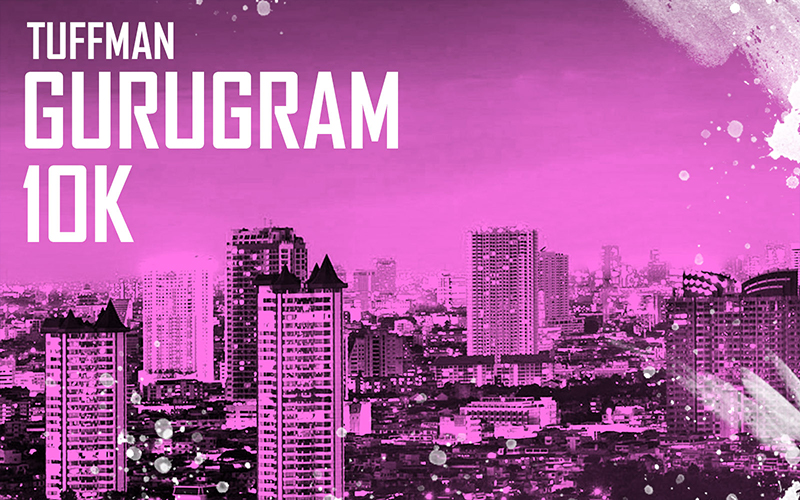
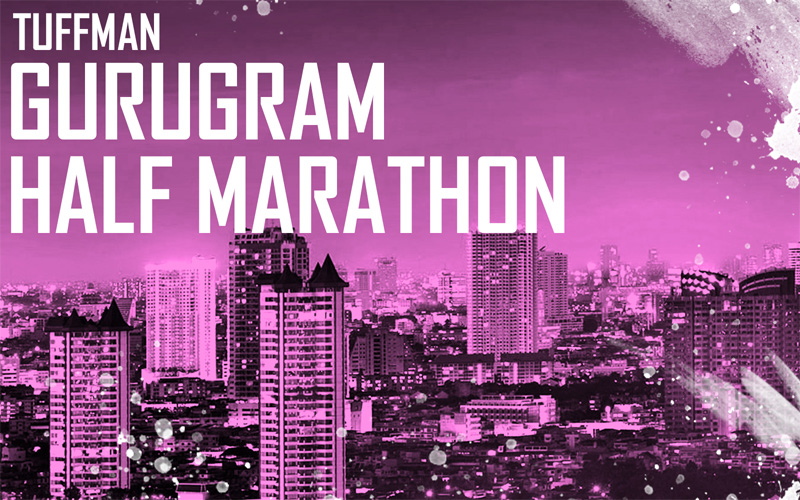
tuffman changes till dec 2018

diff --git a/races.html b/races.html
@@ -55,32 +55,6 @@
             <h1 class="section_title wow animated fadeIn" data-wow-delay="0.5s">RACE CALENDAR</h1>
             <div class="all-races">
                 
-<!--                Kasauli Half Marathon     -->
-                <div class="race-card wow animated fadeInUp" data-wow-delay="0.5s">
-                    <a href="races/kasauli-marathon.html"><img src="images/races-thumbnails/tuffman-kasauli.jpg" class="race-image" alt=""></a>
-                    <div class="overlay overlay-green">
-                        <div class="overlay-text">
-                            <h3>16th December 2018</h3>
-                            <div class="overlay-cta">
-                                <a href="races/kasauli-marathon.html" class="btn-details">View Details</a>
-                            </div>
-                        </div>
-                    </div>
-                </div>
-                
-<!--                Jaisalmer Desert Ultra     -->
-                <div class="race-card wow animated fadeInUp" data-wow-delay="0.5s">
-                    <a href="races/jaisalmer-ultra.html"><img src="images/races-thumbnails/tuffman-jaisalmer.jpg" class="race-image" alt=""></a>
-                    <div class="overlay overlay-yellow">
-                        <div class="overlay-text">
-                            <h3>22nd December 2018</h3>
-                            <div class="overlay-cta">
-                                <a href="races/jaisalmer-ultra.html" class="btn-details">View Details</a>
-                            </div>
-                        </div>
-                    </div>
-                </div>
-                
 <!--                Island Ultra Andman     -->
                 <div class="race-card wow animated fadeInUp" data-wow-delay="0.5s">
                     <a href="races/andman-ultra.html"><img src="images/races-thumbnails/tuffman-andman.jpg" class="race-image" alt=""></a>
@@ -150,6 +124,32 @@
         <section class="past-races">
             <h1 class="section_title wow animated fadeIn" data-wow-delay="0.5s">PAST RACES</h1>
             <div class="all-races">
+
+<!--                Jaisalmer Desert Ultra     -->
+                <div class="race-card wow animated fadeInUp" data-wow-delay="0.5s">
+                    <a href="races/jaisalmer-ultra.html"><img src="images/races-thumbnails/tuffman-jaisalmer.jpg" class="race-image" alt=""></a>
+                    <div class="overlay overlay-yellow">
+                        <div class="overlay-text">
+                            <h3>22nd December 2018</h3>
+                            <div class="overlay-cta">
+                                <a href="races/jaisalmer-ultra.html" class="btn-details">View Details</a>
+                            </div>
+                        </div>
+                    </div>
+                </div>
+
+<!--                Kasauli Half Marathon     -->
+                <div class="race-card wow animated fadeInUp" data-wow-delay="0.5s">
+                    <a href="races/kasauli-marathon.html"><img src="images/races-thumbnails/tuffman-kasauli.jpg" class="race-image" alt=""></a>
+                    <div class="overlay overlay-green">
+                        <div class="overlay-text">
+                            <h3>16th December 2018</h3>
+                            <div class="overlay-cta">
+                                <a href="races/kasauli-marathon.html" class="btn-details">View Details</a>
+                            </div>
+                        </div>
+                    </div>
+                </div>
 
 <!--                Goa Beach Ultra     -->
                 <div class="race-card wow animated fadeInUp" data-wow-delay="0.5s">

diff --git a/index.html b/index.html
@@ -57,28 +57,7 @@
         <section id="upcoming-races" class="upcoming-races">
             <h1 class="section_title wow animated fadeIn" data-wow-delay="0.5s">UPCOMING RACES</h1>
             <div class="races">
-               <div class="race-card wow animated fadeInUp" data-wow-delay="0.5s">
-                    <a href="races/kasauli-marathon.html"><img src="images/races-thumbnails/tuffman-kasauli.jpg" class="race-image" alt=""></a>
-                    <div class="overlay overlay-green">
-                        <div class="overlay-text">
-                            <h3>16th December 2018</h3>
-                            <div class="overlay-cta">
-                                <a href="races/kasauli-marathon.html" class="btn-details">View Details</a>
-                            </div>
-                        </div>
-                    </div>
-                </div>
-                <div class="race-card wow animated fadeInUp" data-wow-delay="0.5s">
-                    <a href="races/jaisalmer-ultra.html"><img src="images/races-thumbnails/tuffman-jaisalmer.jpg" class="race-image" alt=""></a>
-                    <div class="overlay overlay-yellow">
-                        <div class="overlay-text">
-                            <h3>22nd December 2018</h3>
-                            <div class="overlay-cta">
-                                <a href="races/jaisalmer-ultra.html" class="btn-details">View Details</a>
-                            </div>
-                        </div>
-                    </div>
-                </div>
+               
                 <div class="race-card wow animated fadeInUp" data-wow-delay="0.5s">
                     <a href="races/andman-ultra.html"><img src="images/races-thumbnails/tuffman-andman.jpg" class="race-image" alt=""></a>
                     <div class="overlay overlay-aqua">
@@ -97,6 +76,28 @@
                             <h3>10th March 2019</h3>
                             <div class="overlay-cta">
                                 <a href="races/tricity-stadium-run.html" class="btn-details">View Details</a>
+                            </div>
+                        </div>
+                    </div>
+                </div>
+                <div class="race-card wow animated fadeInUp" data-wow-delay="0.5s">
+                    <a href="races/manali-ultra.html"><img src="images/races-thumbnails/tuffman-manali.jpg" class="race-image" alt=""></a>
+                    <div class="overlay overlay-black">
+                        <div class="overlay-text">
+                            <h3>23rd March 2019</h3>
+                            <div class="overlay-cta">
+                                <a href="races/manali-ultra.html" class="btn-details">View Details</a>
+                            </div>
+                        </div>
+                    </div>
+                </div>
+                <div class="race-card wow animated fadeInUp" data-wow-delay="0.5s">
+                    <a href="races/gurugram-half-marathon.html"><img src="images/races-thumbnails/tuffman-gurugram.jpg" class="race-image" alt=""></a>
+                    <div class="overlay overlay-violet">
+                        <div class="overlay-text">
+                            <h3>21st April 2019</h3>
+                            <div class="overlay-cta">
+                                <a href="races/gurugram-half-marathon.html" class="btn-details">View Details</a>
                             </div>
                         </div>
                     </div>

diff --git a/races/kasauli-marathon.html b/races/kasauli-marathon.html
@@ -16,8 +16,8 @@
 
     
 <!--    owl carouseld styles-->
-    <link rel="stylesheet" href="css/owl.carousel.min.css" type="text/css">
-    <link rel="stylesheet" href="css/owl.theme.default.min.css" type="text/css">
+    <link rel="stylesheet" href="../css/owl.carousel.min.css" type="text/css">
+    <link rel="stylesheet" href="../css/owl.theme.default.min.css" type="text/css">
     
 <!--    animate css style-->
     <link rel="stylesheet" href="../css/animate.css" type="text/css">
@@ -50,8 +50,8 @@
                 <span>TUFFMAN</span><br>KASAULI HILLS<br>HALF MARATHON
             </h1>
             <div class="header-cta">
-                <a href="#race-info" class="btn-secondary btn-race-info">RACE INFO</a>
-                <a href="https://www.townscript.com/e/tuffman-kasauli-hills-half-marathon-031002/booking" target="_blank" class="btn-secondary">BOOK SLOT</a>
+<!--                <a href="#race-info" class="btn-secondary btn-race-info">RACE INFO</a>-->
+                <a href="https://edifysports.in/Event-Result.php" target="_blank" class="btn-secondary">CHECK RESULTS</a>
             </div>
         </section>
         
@@ -249,6 +249,8 @@
                         <h4><span>Hospitality Partner</span> - WelcomHeritage Glenview Resort, Kasauli, HP</h4>
                         <h4><span>Apparel Partner</span> - T10 Sports</h4>
                         <h4><span>Energy Partner</span> - Fast &amp; Up</h4>
+                        <h4><span>Medical Partner</span> - Alchemist Hospital</h4>
+                        <h4><span>Fitness Partner</span> - Kansal Fitness Club</h4>
                         <h3>SUPPORTED BY</h3>
                         <h4 style="text-align: left">The Fern Surya Resort, Dharampur, Kasauli HP</h4>
                         <h4 style="text-align: left">Woodcreek Resort &amp; Spa, Kasauli HP</h4>
@@ -322,11 +324,27 @@
                 
             </div>
             <div class="cta-button wow animated fadeInUp" data-wow-delay="0.5s">
-                <a href="https://www.townscript.com/e/tuffman-kasauli-hills-half-marathon-031002/booking" target="_blank" class="btn-primary">BOOK YOUR SLOT</a>
+                <a href="https://edifysports.in/Event-Result.php" target="_blank" class="btn-primary">CHECK RESULTS</a>
             </div> 
         
         
         </section>
+        
+        <section class="sponsors wow animated fadeIn" data-wow-delay="0.5s">
+            <h1 class="section_title">SUPPORT &amp; SPONSORS</h1>
+            <div class="owl-carousel owl-theme">
+                <div class="item"><img src="../images/kasauli-sponsors/L1.png" alt=""></div>
+                <div class="item"><img src="../images/kasauli-sponsors/L2.png" alt=""></div>
+                <div class="item"><img src="../images/kasauli-sponsors/L3.png" alt=""></div>
+                <div class="item"><img src="../images/kasauli-sponsors/L4.png" alt=""></div>
+                <div class="item"><img src="../images/kasauli-sponsors/L5.png" alt=""></div>
+                <div class="item"><img src="../images/kasauli-sponsors/L6.png" alt=""></div>
+                <div class="item"><img src="../images/kasauli-sponsors/L7.png" alt=""></div>
+                <div class="item"><img src="../images/kasauli-sponsors/L8.png" alt=""></div>
+                <div class="item"><img src="../images/kasauli-sponsors/L9.png" alt=""></div>
+            </div>
+        </section>
+
         
         
     </main>

diff --git a/gallery.html b/gallery.html
@@ -50,13 +50,38 @@
                 RELENTLESS<br>
                 HUMAN SPIRIT <br>
                 <span>CAPTURED.</span>
-                
             </h1>
         </section>
         
         <section class="gallery">
             <h1 class="section_title wow animated fadeIn" data-wow-delay="0.5s">TUFFMAN GALLERY</h1>
             <div class="gallery-cards">
+               <div class="card-wrapper wow animated fadeInUp" data-wow-delay="0.5s">
+                    <div class="thumbnail">
+                        <img src="images/gallery-thumbnails/jaisalmer-thumbnail.JPG" class="thumbnail-image" alt="">
+                        <div class="thumbnail-overlay">
+                            <div class="thumbnail-text">
+                                <a href="http://bit.ly/2ERq5yj" target="_blank">Briefing Day</a><br>
+                                <a href="https://bit.ly/2rVV4Au" target="_blank">Race Day - 1</a> 
+                                <a href="http://bit.ly/2Am1BsS" target="_blank">Race Day - 2</a>
+                                
+                            </div>
+                        </div>
+                    </div>
+                    <h2>Jaisalmer Desert Championship 2018</h2>
+                </div>
+               <div class="card-wrapper wow animated fadeInUp" data-wow-delay="0.5s">
+                    <div class="thumbnail">
+                        <img src="images/gallery-thumbnails/kasauli-thumbnail.jpg" class="thumbnail-image" alt="">
+                        <div class="thumbnail-overlay">
+                            <div class="thumbnail-text">
+                                <a href="https://new.splitsecondpix.com/events/tuffman-kasauli-hills-half-marathon-2018" target="_blank">Bib Wise Album</a><br>
+                                <a href="https://new.splitsecondpix.com/events/tuffman-kasauli-hills-half-marathon-2018/x" target="_blank">Untagged Album</a>
+                            </div>
+                        </div>
+                    </div>
+                    <h2>Kasauli Hills Half Marathon 2018</h2>
+                </div>
                <div class="card-wrapper wow animated fadeInUp" data-wow-delay="0.5s">
                     <div class="thumbnail">
                         <img src="images/gallery-thumbnails/goa-ultra.jpg" class="thumbnail-image" alt="">

diff --git a/races/gurugram-half-marathon.html b/races/gurugram-half-marathon.html
@@ -109,7 +109,7 @@
                                <i class="far fa-clock"></i>
                                </div>
                                <div class="brief-text">
-                               <h4>5:00 AM Onwards</h4>
+                               <h4>6:00 AM Onwards</h4>
                                </div>
                            </div>
                        </li>
@@ -148,7 +148,7 @@
                                <i class="fas fa-flag-checkered"></i>
                                </div>
                                <div class="brief-text">
-                               <h4>5:00 AM</h4>
+                               <h4>6:00 AM</h4>
                                </div>
                            </div>
                        </li>
@@ -186,7 +186,7 @@
                                <i class="fas fa-flag-checkered"></i>
                                </div>
                                <div class="brief-text">
-                               <h4>5:30 AM</h4>
+                               <h4>6:30 AM</h4>
                                </div>
                            </div>
                        </li>
@@ -224,7 +224,7 @@
                                <i class="fas fa-flag-checkered"></i>
                                </div>
                                <div class="brief-text">
-                               <h4>6:00 AM</h4>
+                               <h4>7:00 AM</h4>
                                </div>
                            </div>
                        </li>

diff --git a/races/jaisalmer-ultra.html b/races/jaisalmer-ultra.html
@@ -50,8 +50,8 @@
                 <span>TUFFMAN</span><br>JAISALMER DESERT<br>CHAMPIONSHIP
             </h1>
             <div class="header-cta">
-                <a href="#race-info" class="btn-secondary btn-race-info">RACE INFO</a>
-                <a href="https://www.townscript.com/e/ultra-tuffman-desert-championship-jaisalmer-2018/booking" target="_blank" class="btn-secondary">BOOK SLOT</a>
+<!--                <a href="#race-info" class="btn-secondary btn-race-info">RACE INFO</a>-->
+                <a href="https://www.accur8timing.com/results/ultra-tuffman-desert-championship-jaisalmer-race-results/" target="_blank" class="btn-secondary">CHECK RESULT</a>
             </div>
         </section>
         
@@ -623,7 +623,7 @@
                 </div>
             </div>
             <div class="cta-button wow animated fadeInUp" data-wow-delay="0.5s">
-                <a href="https://www.townscript.com/e/ultra-tuffman-desert-championship-jaisalmer-2018/booking" target="_blank" class="btn-primary">BOOK YOUR SLOT</a>
+                <a href="https://www.accur8timing.com/results/ultra-tuffman-desert-championship-jaisalmer-race-results/" target="_blank" class="btn-primary">CHECK RESULT</a>
             </div> 
         
         

diff --git a/results.html b/results.html
@@ -55,7 +55,9 @@
             <h1 class="section_title wow animated fadeIn" data-wow-delay="0.5s">CHECK YOUR RESULTS</h1>
             <div class="card-wrapper">
               <h2>2018 Results</h2>
-               <ul>
+               <ul> 
+                    <li><a href="https://www.accur8timing.com/results/ultra-tuffman-desert-championship-jaisalmer-race-results/" target="_blank">Tuffman Jaisalmer Desert Championship 2018</a></li>
+                    <li><a href="https://edifysports.in/Event-Result.php" target="_blank">Kasauli Hills Half Marathon 2018</a></li>
                     <li><a href="https://www.accur8timing.com/results/tuffman-ultra-goa-race-results/" target="_blank">Beach Ultra &amp; Half Marathon Goa 2018</a></li>
                     <li><a href="https://www.accur8timing.com/results/tuffman-tricity-triathlon-race-results/" target="_blank">Tuffman Tricity Triathlon 2018</a></li>
                     <li><a href="https://www.accur8timing.com/results/merida-tuffman-duathlon-ladakh-race-results/" target="_blank">Merida Tuffman Duathlon Ladakh 2018</a></li>
